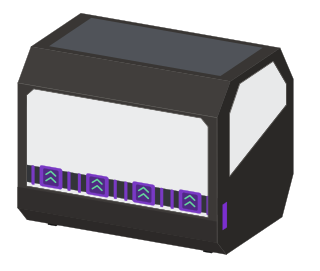
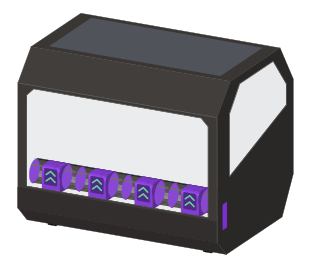
feat(unit-art): Quattro Box feeders become flanged rollers around a rounded carrier (prestonbrown/helixscreen#2068)

Changed region(s): [[0.0625, 0.5609, 0.6562, 0.797]]

diff --git a/scripts/unit_art/units/quattro_box.py b/scripts/unit_art/units/quattro_box.py
@@ -2,7 +2,7 @@
 """Quattro Box: a faceted DIY enclosure, its width set by how many lanes it was built with."""
 from pathlib import Path
 
-from .. import kit, spool
+from .. import feeder, kit, spool
 from ..kit import TrayShellDef, UnitDef
 
 # 1.0 is 400 mm, so a 0.25 spool radius is a 200 mm spool. Read off the front photo.
@@ -10,9 +10,11 @@ CAP, PITCH = 0.151, 0.2325
 D, H = 0.75, 0.81
 SPOOL_Y, SPOOL_Z, SPOOL_R = 0.375, 0.45, 0.25
 BODY, BODY_DARK, ACCENT, GLOW, GLASS = "#3b3836", "#292725", "#7b2fd0", "#62e6a0", "#6f7379"
-ROLLER = "#2a2b2e"
+ROLLER = "#4a4744"
 WINDOW_Z0, WINDOW_Z1, WALL_TOP = 0.197, 0.665, 0.68
 FEED_TOP = 0.295
+ROLLER_Y, ROLLER_Z, ROLLER_R = 0.09, 0.238, 0.052
+CARRIER_Y = 0.028
 # Front foot to rear foot, chamfered at all four corners.
 PROFILE = [(0.09, 0.0), (0.0, 0.085), (0.0, WALL_TOP), (0.13, H), (0.62, H), (D, 0.62), (D, 0.17), (0.64, 0.0)]
 SIDE_WINDOW = [(0.12, 0.36), (0.12, 0.66), (0.22, 0.77), (0.55, 0.77), (0.68, 0.62), (0.68, 0.52)]
@@ -39,19 +41,27 @@ def _window(w):
     return [(x0, z0), (x1, z0), (x1, z1 - cut), (x1 - cut, z1), (x0 + cut, z1), (x0, z1 - cut)]
 
 
+def _carrier_profile():
+    """A carrier's side: a flat front standing on the floor, its top rounded over the roller."""
+    pts = [(CARRIER_Y, WINDOW_Z0 - 0.02), (CARRIER_Y, FEED_TOP), (ROLLER_Y + ROLLER_R, FEED_TOP), (ROLLER_Y + ROLLER_R, WINDOW_Z0 - 0.02)]
+    return kit.fillet(pts, [0, 0.03, 0.05, 0], closed=True, steps=6)
+
+
 def _feeder(sc, xc, detail):
-    """One lane\x27s drive behind the glass: a purple carrier between two rings."""
-    y = 0.03
-    sc.poly(kit.rrect_front(xc - 0.056, xc + 0.056, WINDOW_Z0, FEED_TOP, 0.012, y), ACCENT)
-    sc.poly(kit.rrect_front(xc - 0.038, xc + 0.038, WINDOW_Z0 + 0.012, FEED_TOP - 0.012, 0.008, y - 0.001), "#4a1d84")
+    """One lane\x27s drive behind the glass: a purple carrier between two flanged rollers."""
+    half, reach = 0.044, 0.112
+    rim = {"flange_k": 1.05, "flange_w": 0.008, "sheen": "#716e6a"}
+    kit.roller(sc, xc - reach, xc - half - 0.008, ROLLER_Y, ROLLER_Z, ROLLER_R, ROLLER, ACCENT, **rim)
+    feeder.solid(sc, _carrier_profile(), xc - half, xc + half, ACCENT)
+    kit.roller(sc, xc + half + 0.008, xc + reach, ROLLER_Y, ROLLER_Z, ROLLER_R, ROLLER, ACCENT, **rim)
+    y = CARRIER_Y - 0.001
+    sc.poly(kit.rrect_front(xc - 0.032, xc + 0.032, WINDOW_Z0 + 0.012, FEED_TOP - 0.008, 0.008, y), "#4a1d84")
     if detail:
         for dz in (0.0, 0.03):
             z = WINDOW_Z0 + 0.03 + dz
-            sc.line([(xc - 0.024, y - 0.002, z), (xc, y - 0.002, z + 0.018), (xc + 0.024, y - 0.002, z)], GLOW, 0.007)
-        for dx in (-0.09, 0.09):
-            sc.poly(kit.rrect_front(xc + dx - 0.007, xc + dx + 0.007, WINDOW_Z0, FEED_TOP - 0.008, 0.005, y), ACCENT)
+            sc.line([(xc - 0.022, y - 0.001, z), (xc, y - 0.001, z + 0.018), (xc + 0.022, y - 0.001, z)], GLOW, 0.007)
     else:
-        sc.poly(kit.rrect_front(xc - 0.02, xc + 0.02, WINDOW_Z0 + 0.03, FEED_TOP - 0.03, 0.004, y - 0.002), GLOW)
+        sc.poly(kit.rrect_front(xc - 0.02, xc + 0.02, WINDOW_Z0 + 0.03, FEED_TOP - 0.03, 0.004, y - 0.001), GLOW)
 
 
 def draw_art(sc, colors, tier):
@@ -73,7 +83,7 @@ def draw_art(sc, colors, tier):
     for fx in (0.09, w - 0.13):
         for fy in (0.12, D - 0.17):
             sc.prism([(fx + 0.04, fy), (fx + 0.04, fy + 0.04), (fx, fy + 0.04), (fx, fy)], -0.018, 0.0, "#101010")
-    sc.poly(kit.rrect_front(0.02, w - 0.02, WINDOW_Z0, FEED_TOP - 0.018, 0.0, 0.05), ROLLER)
+    sc.poly(kit.rrect_front(0.02, w - 0.02, WINDOW_Z0, FEED_TOP - 0.018, 0.0, 0.15), "#1c1b1a")
     for xc in centers(lanes):
         _feeder(sc, xc, detail)
 
